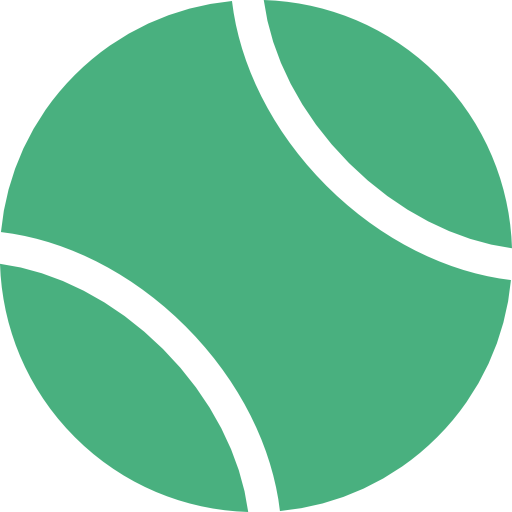
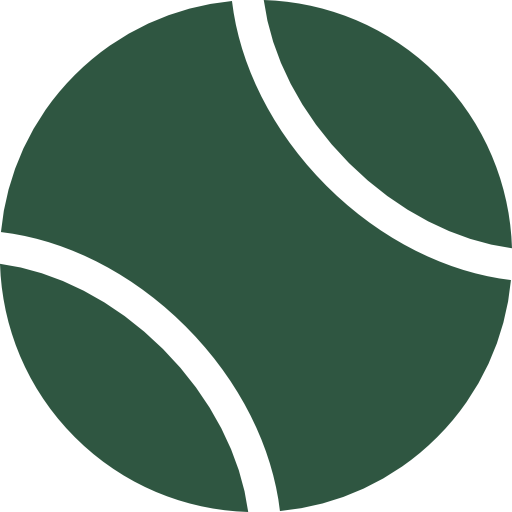
añadido correciones en colores de la app

diff --git a/bootcamp/Personal/personalFront/src/components/esquemaColores/ColoresApp.vue b/bootcamp/Personal/personalFront/src/components/esquemaColores/ColoresApp.vue
@@ -28,14 +28,14 @@ export default {
           alt="Bola Azul"
         />
       </button>
-      <button @click="setPrimaryColor('#b23838')">
+      <button @click="setPrimaryColor('#272727')">
         <img
           class="bola"
-          src="/src/assets/img/navbar/bolaRoja.png"
+          src="/src/assets/img/navbar/bolaNegra.png"
           alt="Bola Roja"
         />
       </button>
-      <button @click="setPrimaryColor('#49b07f')">
+      <button @click="setPrimaryColor('#2f5641')">
         <img
           class="bola"
           src="/src/assets/img/navbar/bolaVerde.png"

diff --git a/bootcamp/Personal/personalFront/src/assets/base.css b/bootcamp/Personal/personalFront/src/assets/base.css
@@ -9,8 +9,6 @@
   --vt-c-black-mute: #282828;
 
   --vt-c-indigo: #2c3e50;
-  --primary-color: red;
-  --secondary-color: #b0fc33;
 
   --vt-c-divider-light-1: rgba(60, 60, 60, 0.29);
   --vt-c-divider-light-2: rgba(60, 60, 60, 0.12);
